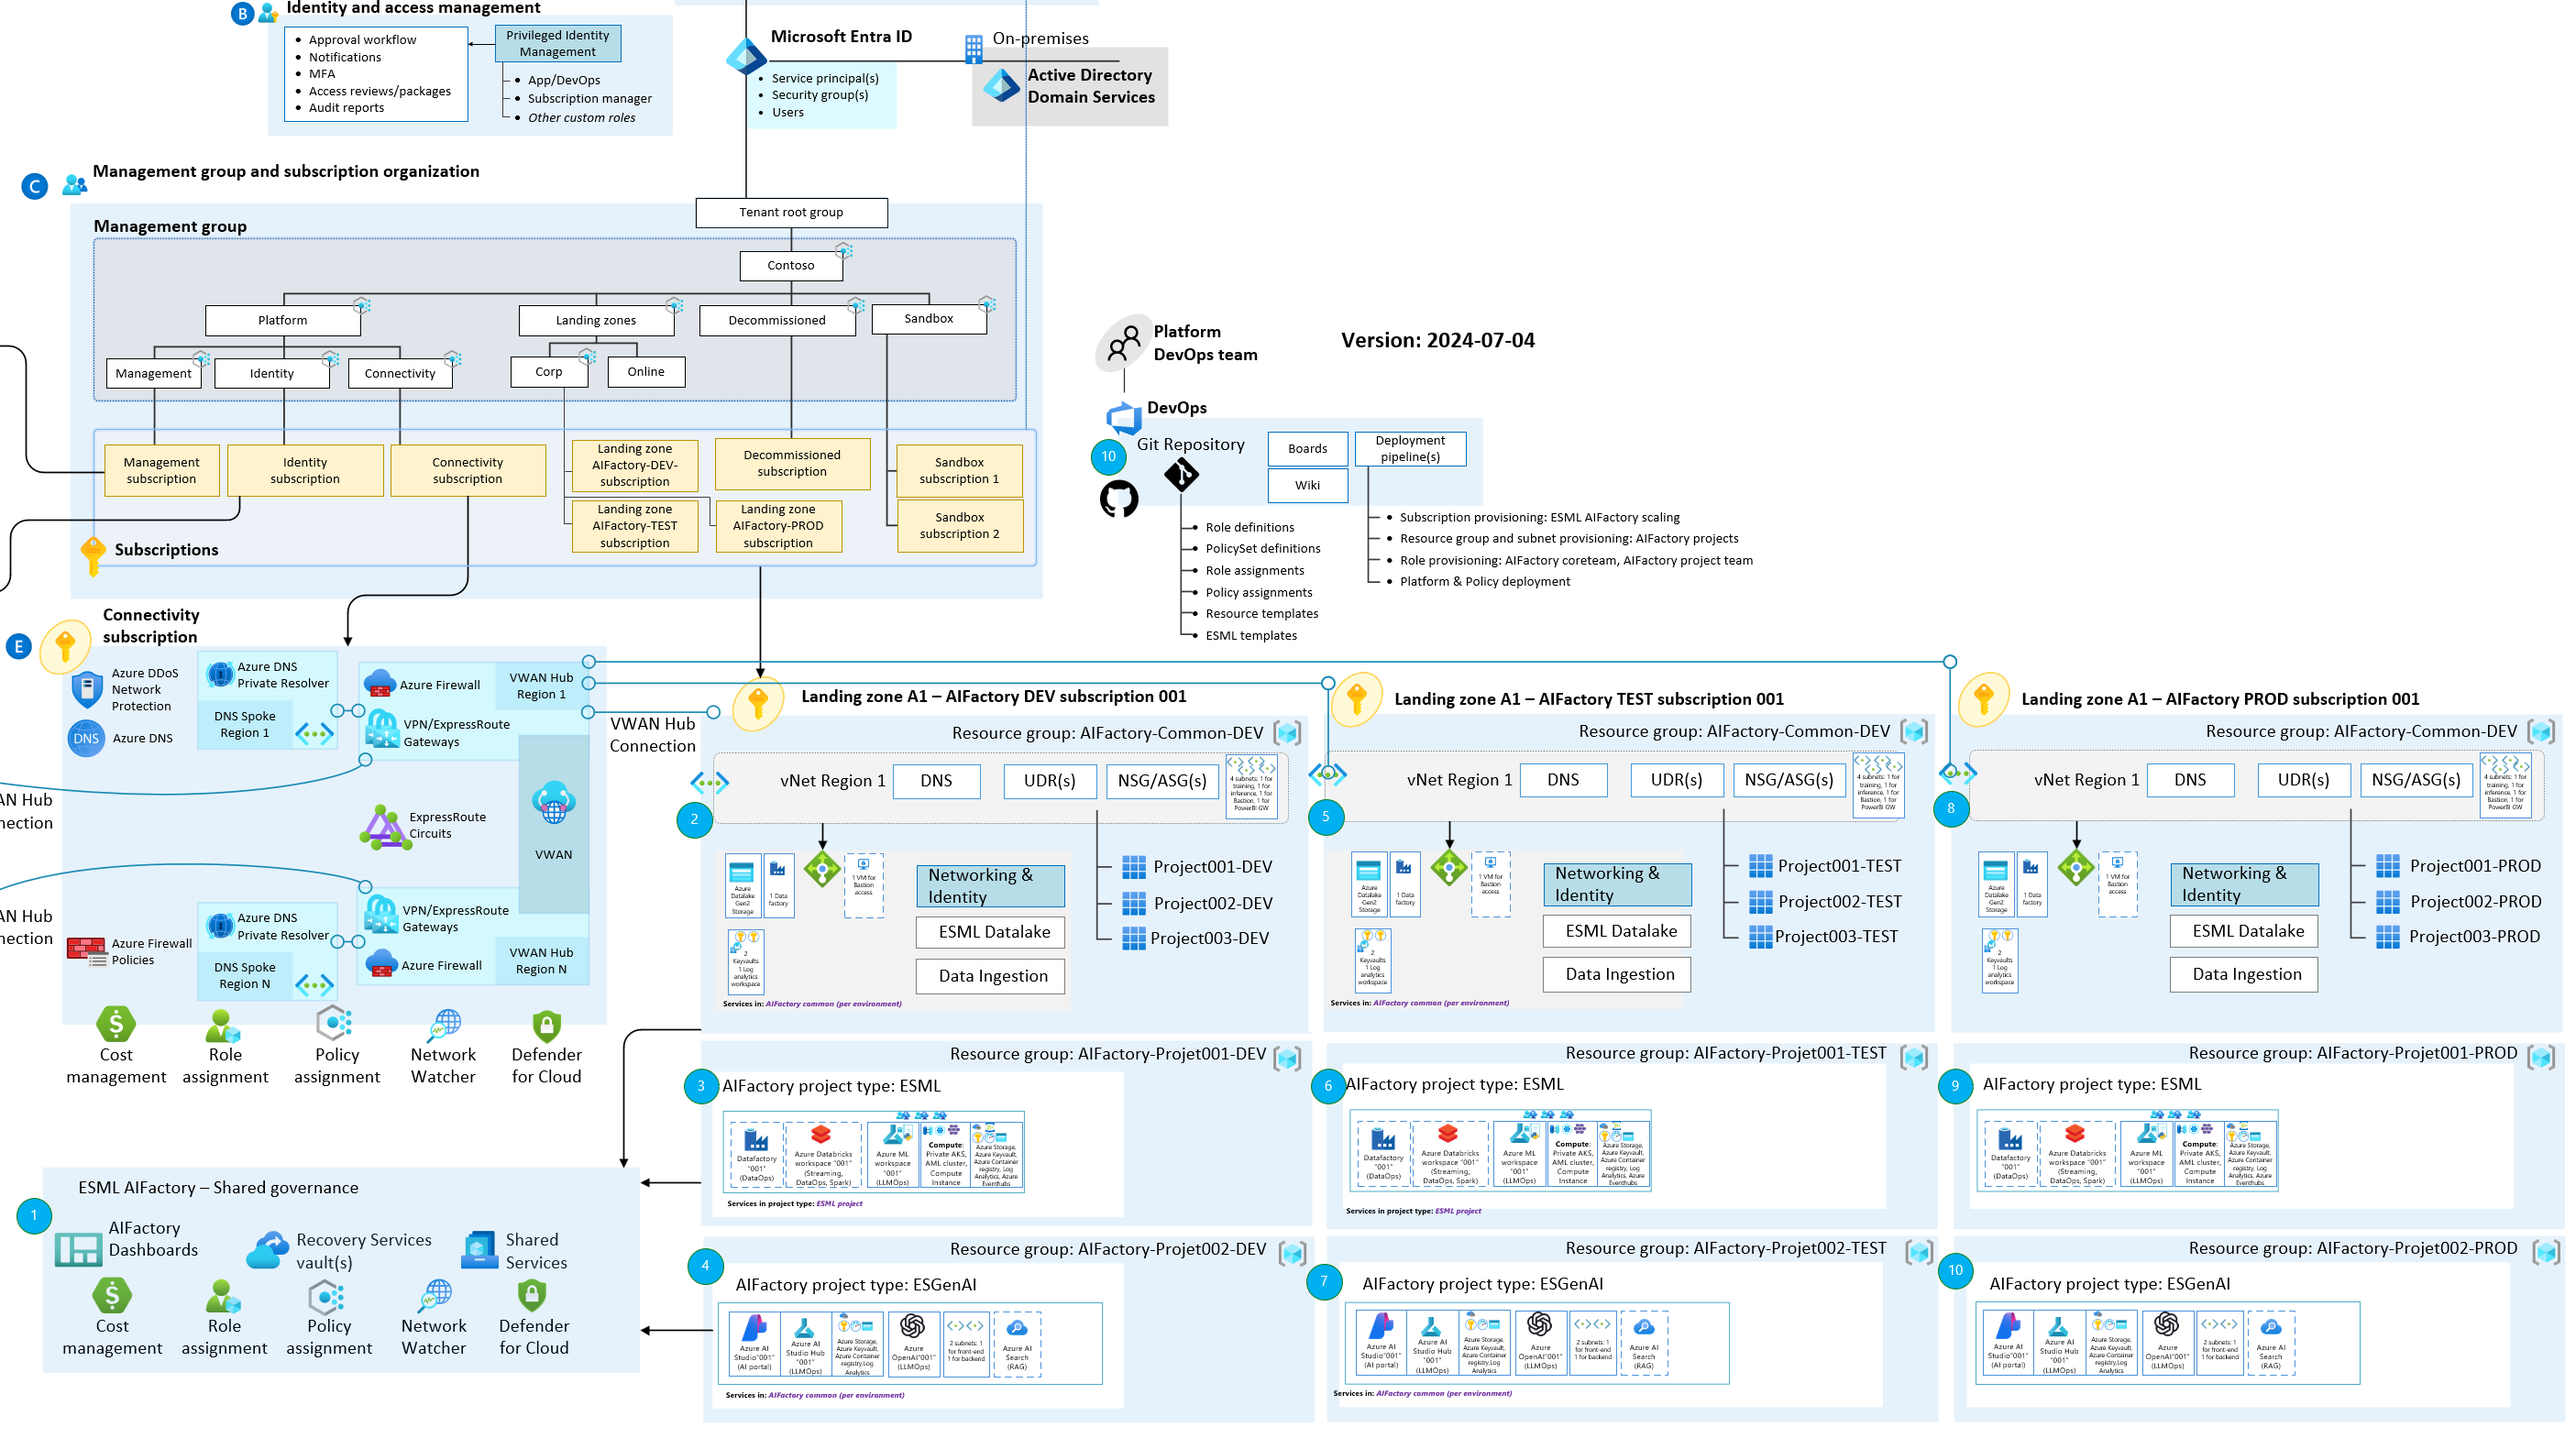
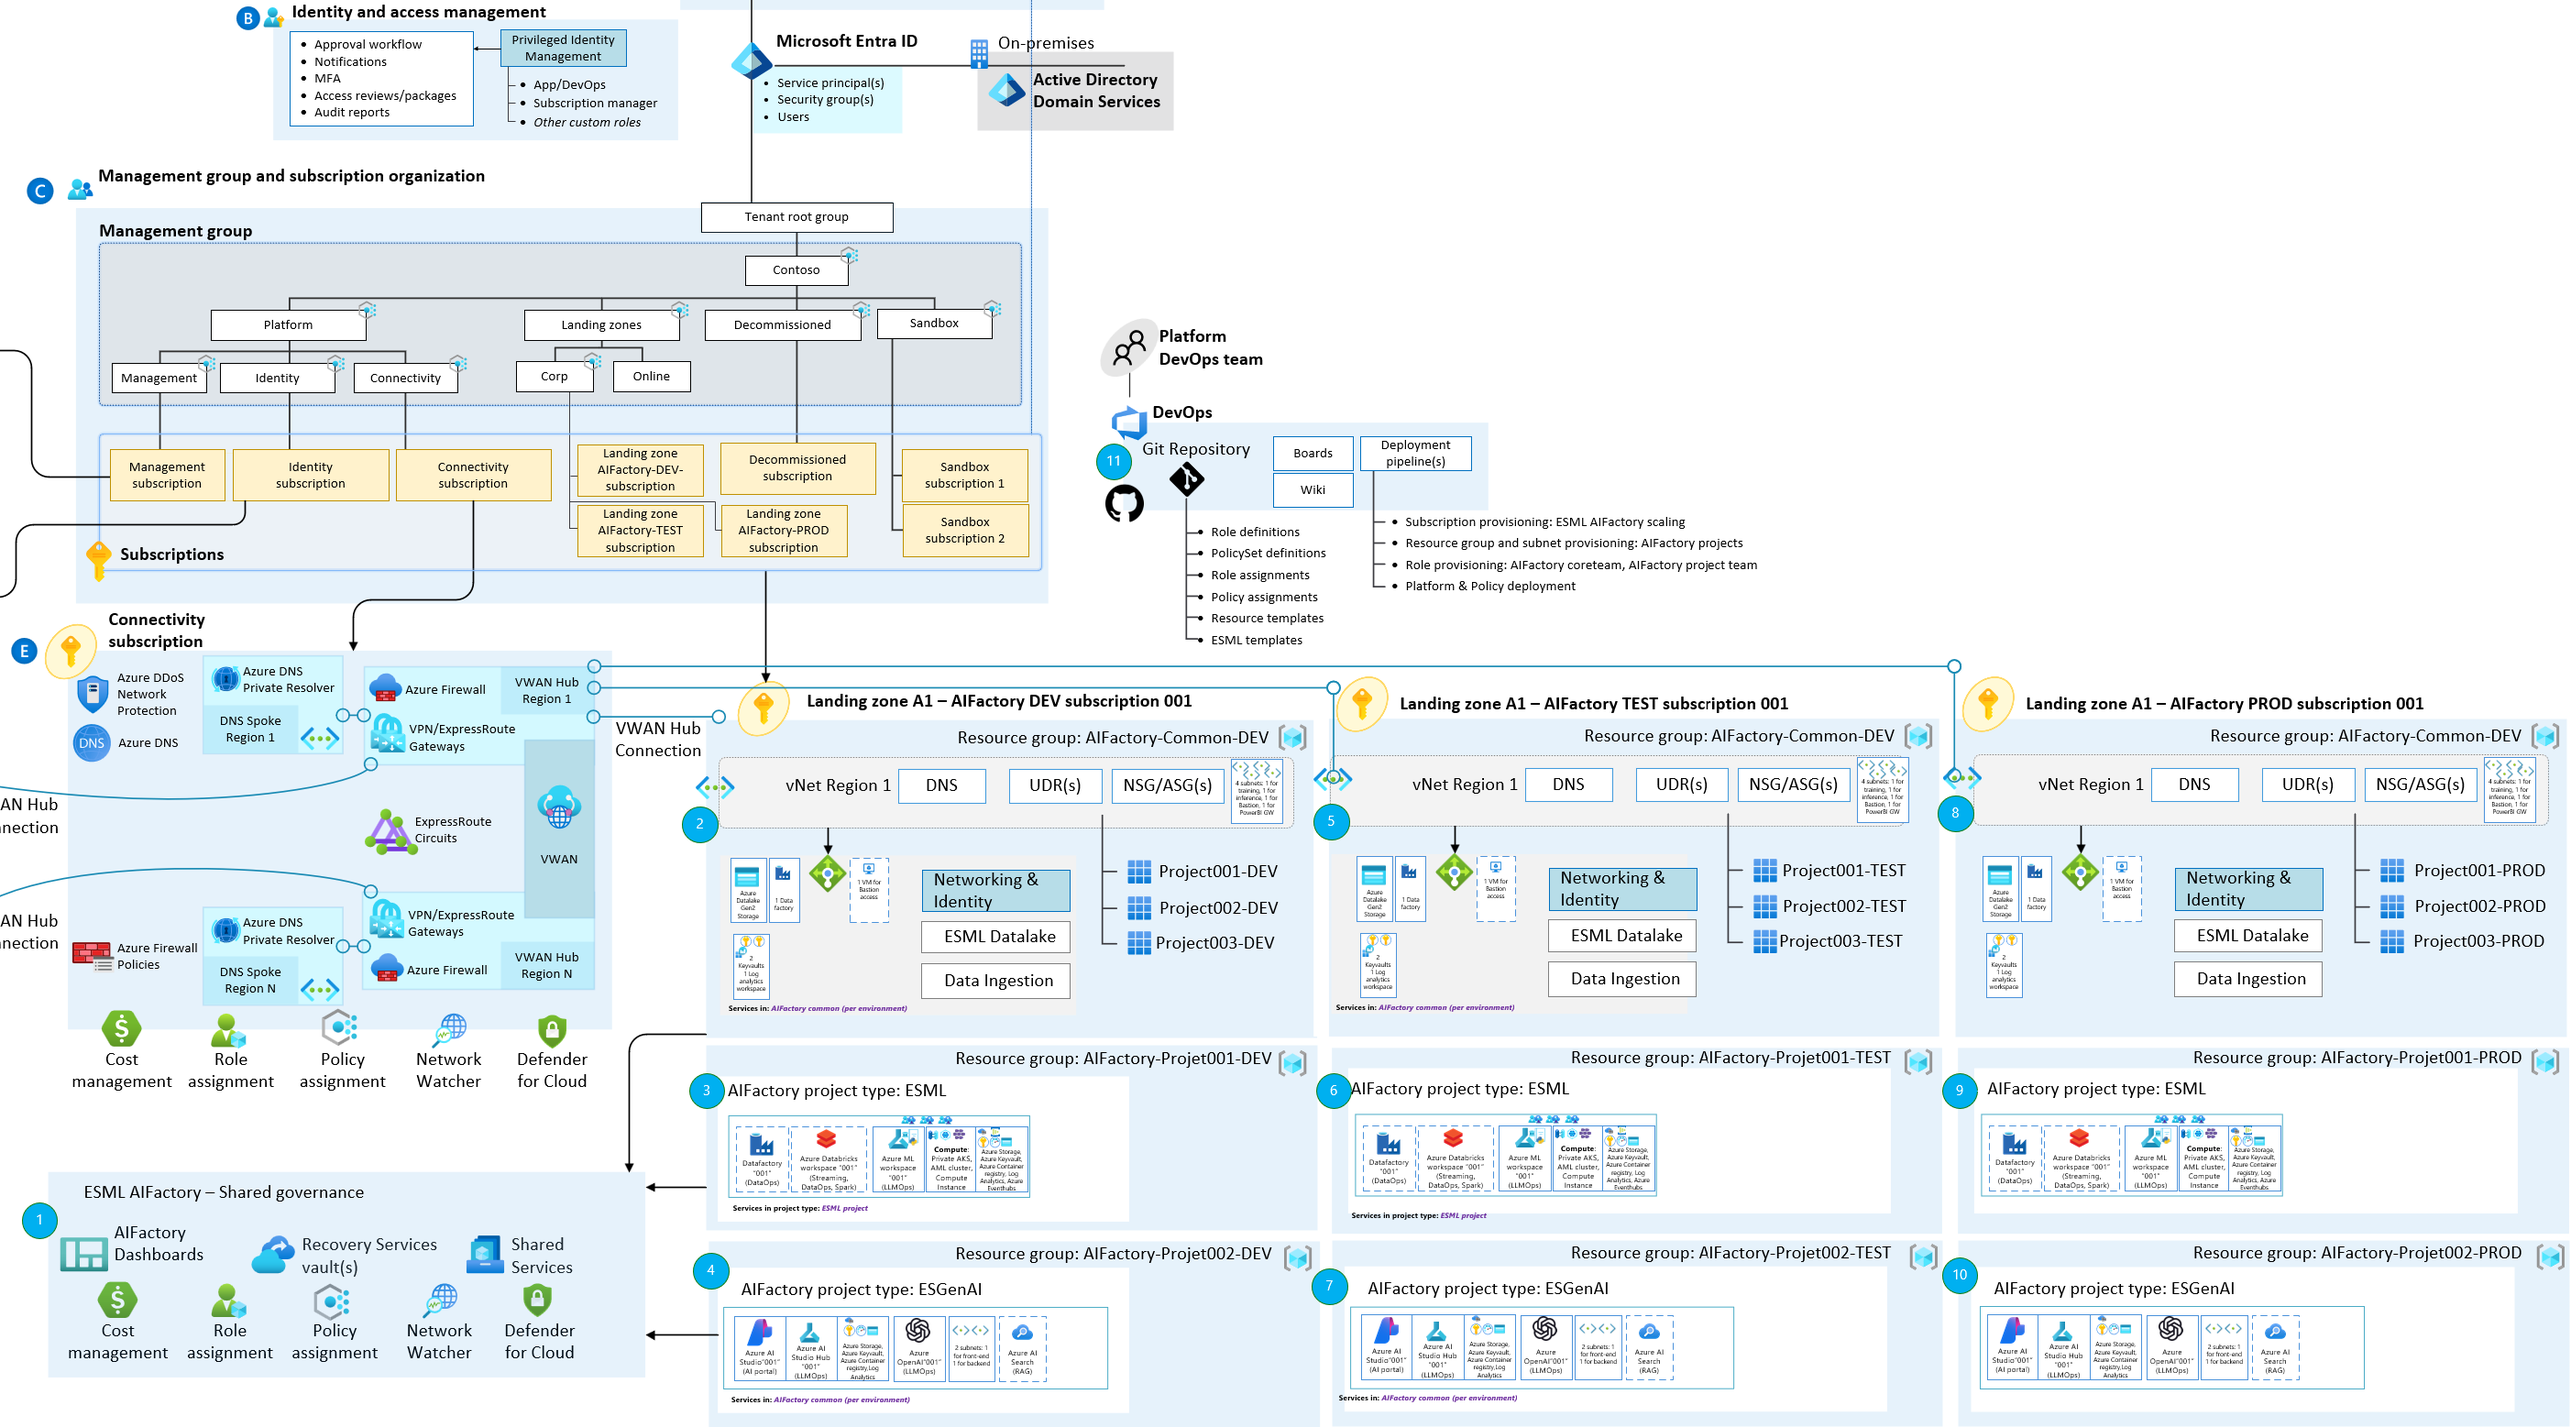
docs

Changed region(s): [[0.0, 0.0, 1.0, 1.0], [0.5273, 0.2158, 0.5893, 0.2466]]

diff --git a/documentation/v2/10-19/14-networking-privateDNS.md b/documentation/v2/10-19/14-networking-privateDNS.md
@@ -23,6 +23,21 @@ You can choose to have Private DNS Zones Centrally in HUB (recommended) or in th
 
 ![](./images/14-eslz-zoomed-in-1.png)
 
+- 1) AIFactory Shared Governance
+    - AIFactory dashboards, Cost control over all environments in the AIFactory, Network Watcher
+- 2) AIFactory Common-Dev
+- 3) AIFactory Project001-Dev (ESML)
+- 4) AIFactory Project002-Dev (ESGenAI)
+- 5) AIFactory Common-Test
+- 6) AIFactory Project001-Test (ESML)
+- 7) AIFactory Project002-Test (ESGenAI)
+- 8) AIFactory Common-Prod
+- 9) AIFactory Project001-Prod (ESML)
+- 10) AIFactory Project002-Prod (ESGenAI)
+- 11) Platform and Devops team
+    - Core team: The code repository, where AIFactory (IaC) Automation and pipeline resides
+    - Project team: The code repository, where AIFactory (MLops,LLMOps) Automation and pipeline resides
+
 
 ## How-to: Understand how the secure Azure Machine Learning workspaces is setup in the AIFactory automation
 
